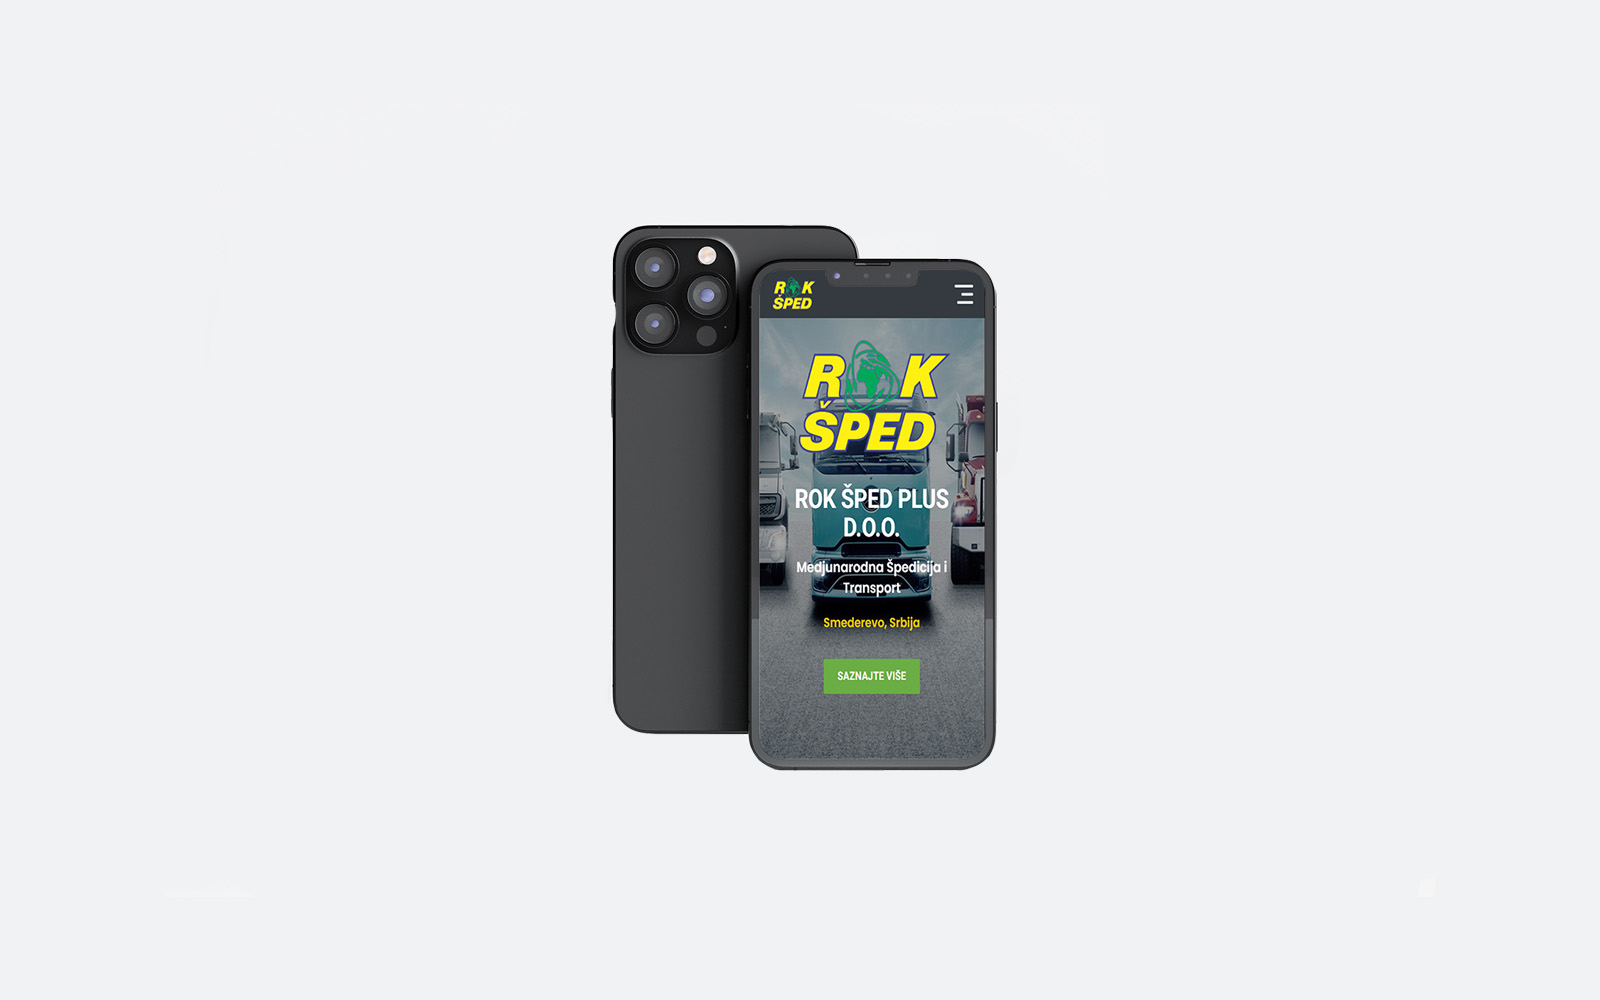
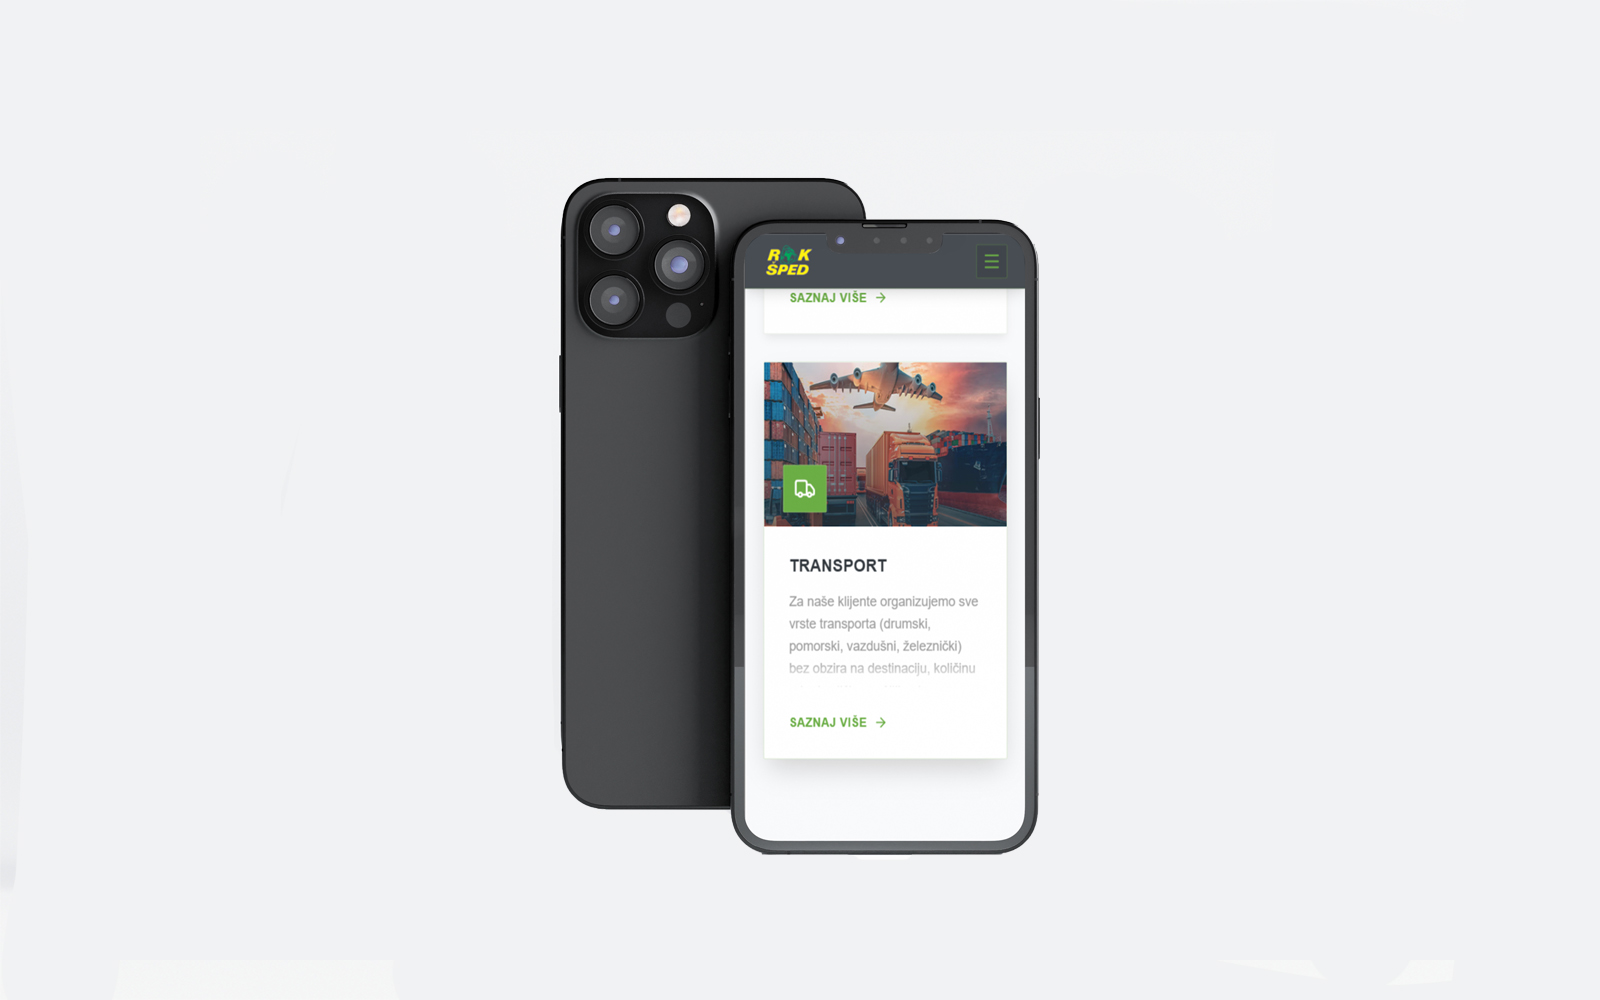
proj pics

Changed region(s): [[0.3438, 0.155, 0.6562, 0.868]]

diff --git a/src/sections/Projects.jsx b/src/sections/Projects.jsx
@@ -11,6 +11,8 @@ import Project2Thumbnail from "../assets/projects/project2_thumbnail.jpg";
 import Project2Slide1 from "../assets/projects/project2_slide1.jpg"
 import Project2Slide2 from "../assets/projects/project2_slide2.jpg"
 import Project2Slide3 from "../assets/projects/project2_slide3.jpg"
+import Project2Slide4 from "../assets/projects/project2_slide4.jpg"
+import Project2Slide5 from "../assets/projects/project2_slide5.jpg"
 import Project3Thumbnail from "../assets/projects/project3_thumbnail.jpg";
 import Project3Slide1 from "../assets/projects/project3_slide1.jpg"
 import Project3Slide2 from "../assets/projects/project3_slide2.jpg"
@@ -54,7 +56,7 @@ const projectsData = [
             + "Enhanced loading times through optimized code and asset management."
             + "Crafted content and design elements to align with the company’s brand identity and values.",
         cover: Project2Thumbnail,
-        images: [Project2Slide1, Project2Slide3, Project2Slide2],
+        images: [Project2Slide1, Project2Slide3, Project2Slide2, Project2Slide4, Project2Slide5],
         tags: ["React", "TailwindCSS", "Animate.css", "Photoshop"],
         links: { demo: "https://roksped.rs", github: "https://github.com/therealyhn/rokspedv2" },
     },
